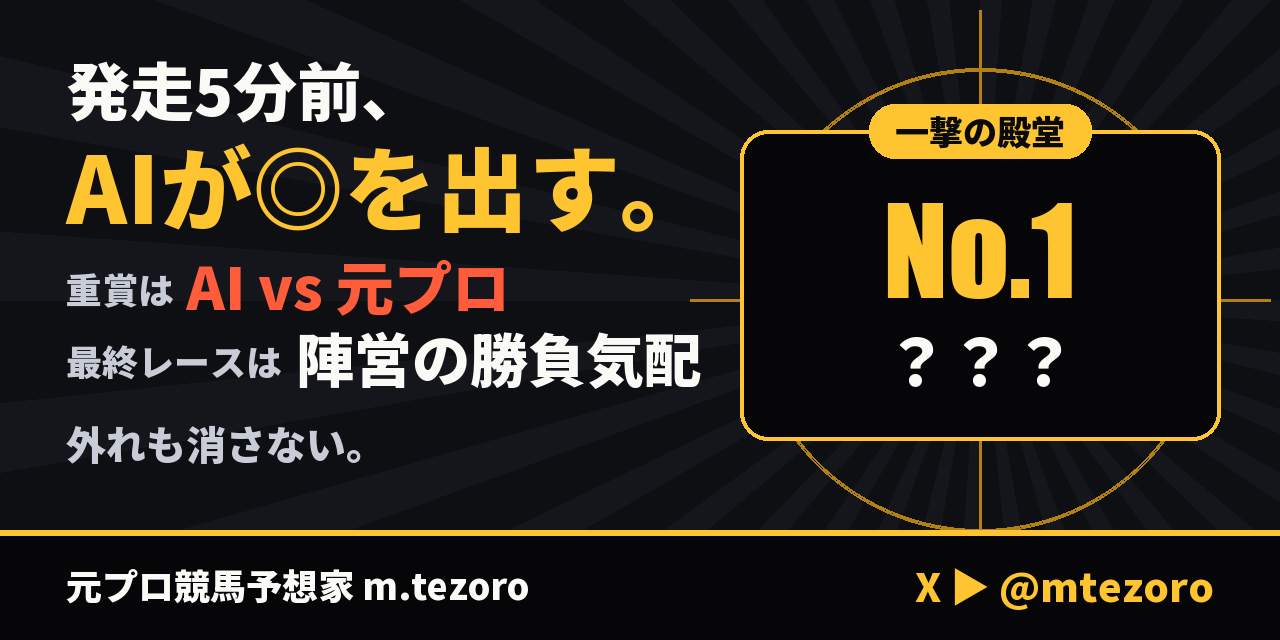
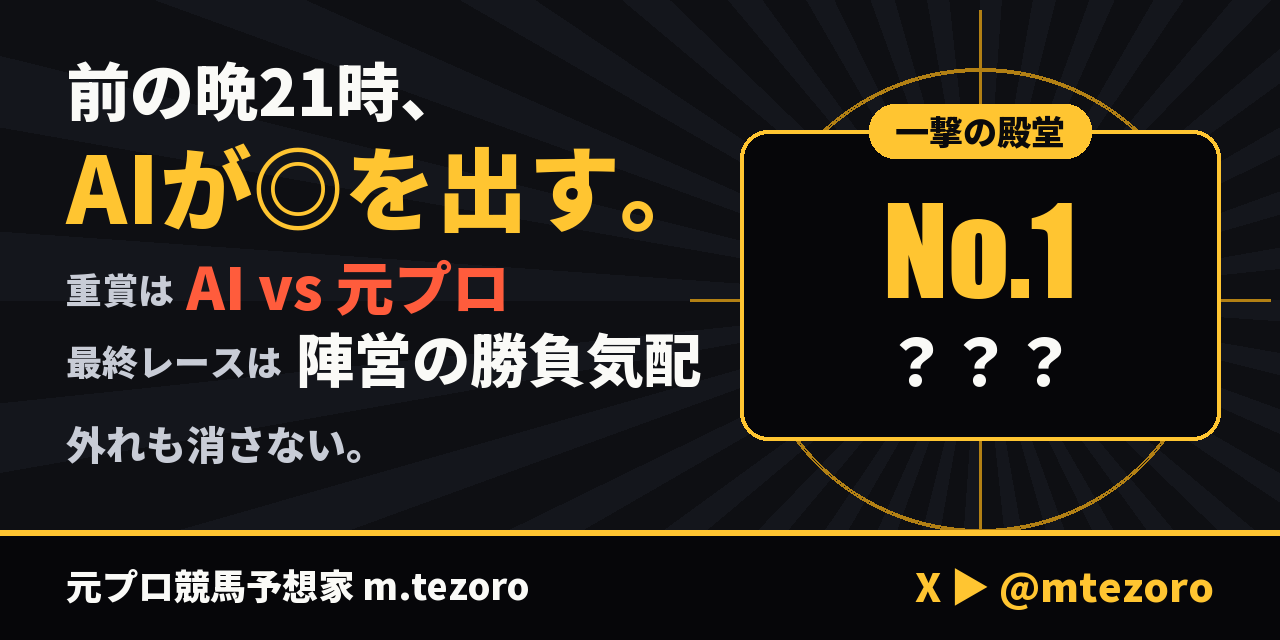
第17版の説明に合わせる（AIの印は前の晩21時から記事で・GitHub の印は発走の後・明日の新馬は X に出さない）

Changed region(s): [[0.0312, 0.0938, 0.3438, 0.1875]]

diff --git a/README.md b/README.md
@@ -1,23 +1,24 @@
 # 元プロ競馬予想家 m.tezoro｜AIの◎と陣営の勝負気配
 
-![発走5分前、AIが◎を出す。](img/cover.png)
+![前の晩21時、AIが◎を出す。](img/cover.png)
 
 **元プロの俺が、自分で育てたAIを走らせる。**  
-土日の発走5分前に、AIの◎を出す。  
-重賞の日は朝10時に元プロの勝負馬券を先に出し、発走5分前に1本の札で **AI vs 元プロ**🥊  
-開催日は、各場の最終レースの発走30分前に元プロの◎△と陣営の勝負気配🐎  
+土日のAIの印は、前の晩21時から記事で（各場の1Rは無料）。  
+重賞の日は朝10時に元プロの勝負馬券を先に出し、AIの記事の印と **AI vs 元プロ**🥊  
+開催日は、最終レースに元プロの◎○▲△と陣営の勝負気配🐎  
 X ▶ [@mtezoro](https://x.com/mtezoro)
 
 ## 約束
 
-- 発走前に全部見せる
+- 予想と結果は全部記録する
 - 外れも消さない
 
 ## ⏰ AIの◎
 
-全部の◎は発走前に `m1_picks.csv` へ、結果は `m1_results.csv` へ。10/10 から、レースごとに「○戦○勝」で数えます。
-投稿は印 ◎○▲△ だけ。買い方は決まった7つから選べます：三連単マルチ ◎軸○▲△・三連単 ◎→○▲→○▲△・三連複 ◎-○▲△・馬単 ◎→○▲・馬連 ◎-○▲・ワイド ◎-○▲・単勝 ◎（元プロの印は○▲△を△4頭で）。
-各1点1万円で `bets.csv` に記録し、当たったらすぐ速報🎯。回収率は1か月以上でプラスの買い方だけ。
+全部の◎は発走の後に、前の晩と朝9時の印は `ai_marks.csv`、直前の◎は `m1_picks.csv` へ。結果は `ai_marks_results.csv` と `m1_results.csv` へ。10/10 から、レースごとに「○戦○勝」で数えます。
+投稿は印 ◎○▲△ だけ。買い方は決まった7つから選べます：三連単マルチ ◎軸○▲△・三連単 ◎→○▲→○▲△・三連複 ◎-○▲△・馬単 ◎→○▲△・馬連 ◎-○▲△・ワイド ◎-○▲△・単勝 ◎。
+`bets.csv` に記録し、当たったらすぐ速報🎯。回収率は1か月以上でプラスの買い方だけ。
+有料の記事（BOOKERS・1レース1本）の番号は、前の晩の記事は `kiji.csv`、直前の記事は `bookers.csv` に残します（2026年10月17日の開催の分から）。
 
 ## 🥊 重賞の札（AI vs 元プロ）
 
@@ -26,20 +27,20 @@ X ▶ [@mtezoro](https://x.com/mtezoro)
 
 ## 🐎 陣営の1行
 
-AIの◎・重賞の札に、一流の陣営のしるしが出たら「🐎陣営：」の1行。最終レースは元プロの◎と△から2頭まで。今季の一流（調教師10人・騎手10人）は [`今季の一流.csv`](今季の一流.csv)。
+重賞の元プロの札と最終レースに、一流の陣営のしるしが出たら「🐎陣営：」の1行（印の馬から2頭まで）。今季の一流（調教師10人・騎手10人）は [`今季の一流.csv`](今季の一流.csv)。
 
 ## 💥 一撃の殿堂
 
-発走前に X に出したAIの◎が勝って、単勝の払戻が1,000円以上で殿堂入り。番号を付けて `ichigeki.csv` へ。
+発走前に記事で出したAIの◎が勝って、単勝の払戻が1,000円以上で殿堂入り。番号を付けて `ichigeki.csv` へ。
 
 ## 🐣 明日の新馬（POG）
 
-新馬戦の前の夜に、翌日デビューの全頭の順位を `pog_picks.csv` に記録します。X には AI の評価 S と A を「明日の新馬」で。POG の指名（1季10頭）の勝ち上がりは、月に1回 `pog_results.csv` へ。
+新馬戦の前の夜に、翌日デビューの全頭の順位を `pog_picks.csv` に記録します。
 
 ## 📖 はじまりの話
 
 10/4、AIは京都大賞典の ◎12 エコロディノスを選んで1着（単勝2,900円）。  
-10/10 から、AIの◎は全部、発走前に記録します。
+10/10 から、AIの◎は全部記録します。
 
 ---
 <sub>決まりとファイルの説明は [決まり.md](決まり.md)</sub>
